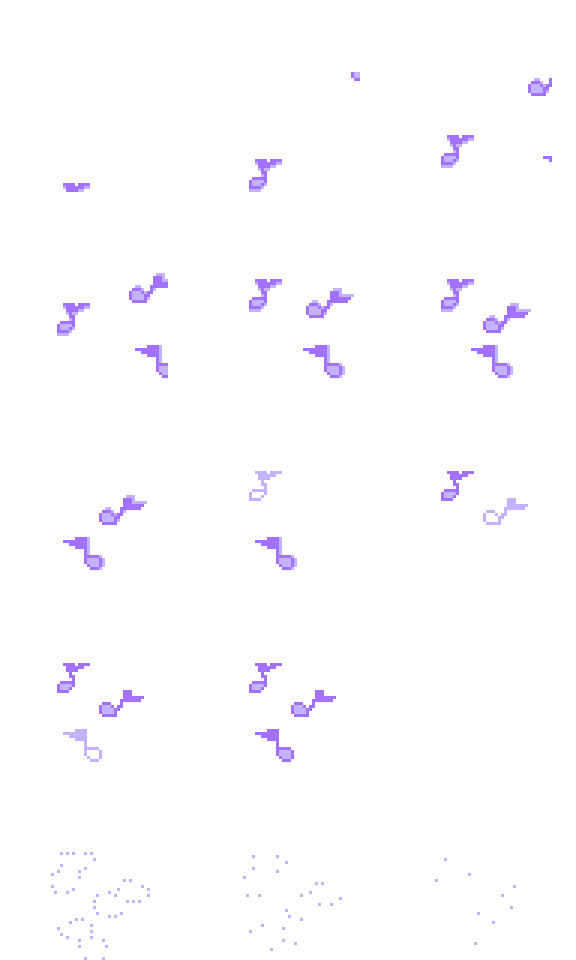
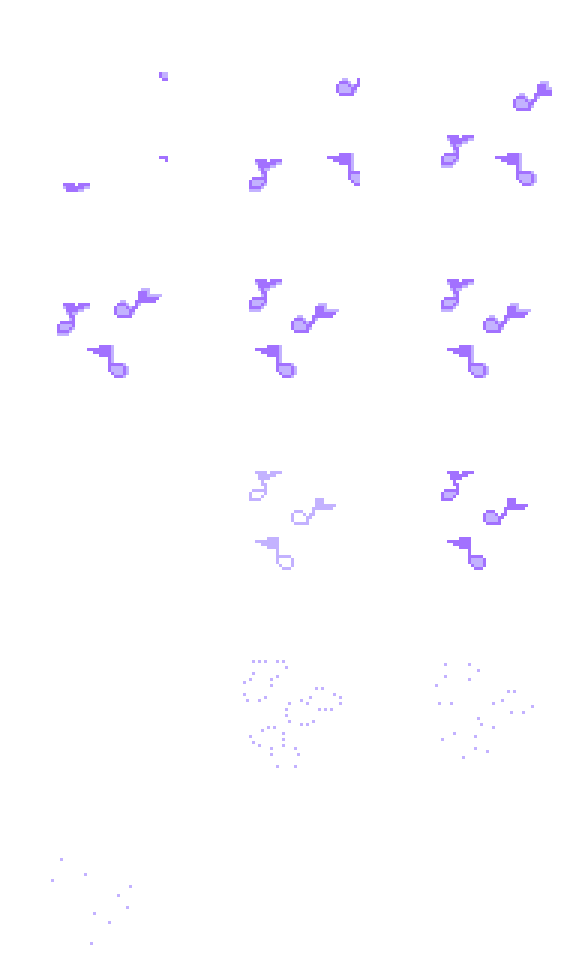
load animation info into engine

diff --git a/js/plugins.js b/js/plugins.js
@@ -5,5 +5,5 @@ var $plugins =
 {"name":"E9D_NotMyNsf","status":false,"description":"Integrates and adapts okaybenji's (on github) JS NSF player.","parameters":{"title":"","battle":"{\"fileDir\":\"audio/nsf\",\"fileName\":\"ff3\",\"track\":\"32\"}","victory":"{\"fileDir\":\"audio/nsf\",\"fileName\":\"ff3\",\"track\":\"7\"}","defeat":"{\"fileDir\":\"audio/nsf\",\"fileName\":\"ff3\",\"track\":\"19\"}","gameOver":"","boat":"","ship":"","airship":"","cursor":"{\"fileDir\":\"\",\"fileName\":\"\",\"track\":\"0\"}","ok":"","cancel":"","buzzer":"","equip":"","save":"","load":"","battleStart":"","escape":"","enemyAttack":"","enemyDamage":"","enemyCollapse":"","bossCollapse1":"","bossCollapse2":"","actorDamage":"","actorCollapse":"","recovery":"","miss":"","evasion":"","magicEvasion":"","magicReflection":"","shop":"","useItem":"","useSkill":""}},
 {"name":"E9D_PixelPerfect","status":true,"description":"Adjustments and options for different resolutions.","parameters":{"renderPixelated":"true","forceWholeResolution":"true","screenWidth":"272","screenHeight":"208","uiAreaWidth":"272","uiAreaHeight":"208","tileWidth":"16","tileHeight":"16","imageFileTag":"_RUNTIME","balloonW":"16","balloonH":"16","buttonW":"16","buttonH":"16","iconW":"8","iconH":"8","faceW":"48","faceH":"48","stateW":"32","stateH":"32","weaponW":"192","weaponH":"32","windowFileSize":"64","windowBorderThickness":"8","cursorBorderThickness":"8"}},
 {"name":"E9D_PaletteJail","status":true,"description":"Provides palette-limited color filters.","parameters":{"paletteFile":"img/system/JailPalette"}},
-{"name":"E9D_RetroFantasy","status":true,"description":"Features for Retro Fantasy.","parameters":{"textImages":"[\"{\\\"file\\\":\\\"img/system/TextFont\\\",\\\"characterW\\\":\\\"8\\\",\\\"characterH\\\":\\\"8\\\"}\"]"}}
+{"name":"E9D_RetroFantasy","status":true,"description":"Features for Retro Fantasy.","parameters":{"textImages":"[\"{\\\"file\\\":\\\"img/system/TextFont\\\",\\\"characterW\\\":\\\"8\\\",\\\"characterH\\\":\\\"8\\\"}\"]","effectImages":"[\"{\\\"file\\\":\\\"img/effects/acid\\\",\\\"frameW\\\":\\\"64\\\",\\\"frameH\\\":\\\"64\\\",\\\"frameCount\\\":\\\"9\\\"}\",\"{\\\"file\\\":\\\"img/effects/bolt\\\",\\\"frameW\\\":\\\"64\\\",\\\"frameH\\\":\\\"152\\\",\\\"frameCount\\\":\\\"6\\\"}\",\"{\\\"file\\\":\\\"img/effects/boost\\\",\\\"frameW\\\":\\\"64\\\",\\\"frameH\\\":\\\"64\\\",\\\"frameCount\\\":\\\"12\\\"}\",\"{\\\"file\\\":\\\"img/effects/flame\\\",\\\"frameW\\\":\\\"64\\\",\\\"frameH\\\":\\\"64\\\",\\\"frameCount\\\":\\\"14\\\"}\",\"{\\\"file\\\":\\\"img/effects/frost\\\",\\\"frameW\\\":\\\"64\\\",\\\"frameH\\\":\\\"64\\\",\\\"frameCount\\\":\\\"13\\\"}\",\"{\\\"file\\\":\\\"img/effects/gale\\\",\\\"frameW\\\":\\\"64\\\",\\\"frameH\\\":\\\"64\\\",\\\"frameCount\\\":\\\"14\\\"}\",\"{\\\"file\\\":\\\"img/effects/gas\\\",\\\"frameW\\\":\\\"64\\\",\\\"frameH\\\":\\\"64\\\",\\\"frameCount\\\":\\\"9\\\"}\",\"{\\\"file\\\":\\\"img/effects/heal\\\",\\\"frameW\\\":\\\"64\\\",\\\"frameH\\\":\\\"64\\\",\\\"frameCount\\\":\\\"9\\\"}\",\"{\\\"file\\\":\\\"img/effects/purify\\\",\\\"frameW\\\":\\\"64\\\",\\\"frameH\\\":\\\"64\\\",\\\"frameCount\\\":\\\"9\\\"}\",\"{\\\"file\\\":\\\"img/effects/quake\\\",\\\"frameW\\\":\\\"64\\\",\\\"frameH\\\":\\\"64\\\",\\\"frameCount\\\":\\\"16\\\"}\",\"{\\\"file\\\":\\\"img/effects/ritual\\\",\\\"frameW\\\":\\\"64\\\",\\\"frameH\\\":\\\"64\\\",\\\"frameCount\\\":\\\"15\\\"}\",\"{\\\"file\\\":\\\"img/effects/soothe\\\",\\\"frameW\\\":\\\"64\\\",\\\"frameH\\\":\\\"64\\\",\\\"frameCount\\\":\\\"13\\\"}\",\"{\\\"file\\\":\\\"img/effects/spellSword\\\",\\\"frameW\\\":\\\"64\\\",\\\"frameH\\\":\\\"64\\\",\\\"frameCount\\\":\\\"9\\\"}\",\"{\\\"file\\\":\\\"img/effects/spike\\\",\\\"frameW\\\":\\\"64\\\",\\\"frameH\\\":\\\"64\\\",\\\"frameCount\\\":\\\"8\\\"}\"]"}}
 ];

diff --git a/js/plugins/E9D_RetroFantasy.js b/js/plugins/E9D_RetroFantasy.js
@@ -25,11 +25,20 @@
  * to expand upon this further in this plugin, as such a feature probably
  * belongs in a plugin focused more on text options.
  *
+ * The effect images feature allows the specification of image files that
+ * contain simple animations. This is to bring back some functionality
+ * resembling older RPG Maker skill animations. They can be referenced in skill
+ * note json data.
+ *
  * @param textImages
  * @text Text Images
  * @desc An array of text image files and their specifications.
  * @type struct<textImageInfo>[]
- * @parent useTextImages
+ *
+ * @param effectImages
+ * @text Effect Images
+ * @desc An array of effect image files and their specifications.
+ * @type struct<effectImageInfo>[]
  */
  
 /*~struct~textImageInfo:
@@ -40,7 +49,7 @@
  * @type file
  *
  * @param characterW
- * @text Character width
+ * @text Character Width
  * @desc The width of an individual text character.
  * @type number
  * @default 8
@@ -52,6 +61,38 @@
  * @desc The height of an individual text character.
  * @type number
  * @default 8
+ * @min 1
+ * @decimals 0
+ */
+ 
+/*~struct~effectImageInfo:
+ *
+ * @param file
+ * @text File
+ * @desc The animation image file.
+ * @type file
+ *
+ * @param frameW
+ * @text Frame Width
+ * @desc The width of an individual animation frame.
+ * @type number
+ * @default 64
+ * @min 1
+ * @decimals 0
+ *
+ * @param frameH
+ * @text Frame Height
+ * @desc The height of an individual animation frame.
+ * @type number
+ * @default 64
+ * @min 1
+ * @decimals 0
+ *
+ * @param frameCount
+ * @text Frame Count
+ * @desc The number of frames in the file.
+ * @type number
+ * @default 9
  * @min 1
  * @decimals 0
  */
@@ -70,9 +111,17 @@
 		pluginParams.textImages = parseStringToJson(pluginParams.textImages, []);
 		for(const textImageInfoStringIndex in pluginParams.textImages) {
 			const textImageInfo = JSON.parse(pluginParams.textImages[textImageInfoStringIndex]);
-			textImageInfo.characterW = parseJSONInt(textImageInfo.characterW, 32, 1);
-			textImageInfo.characterH = parseJSONInt(textImageInfo.characterH, 32, 1);
+			textImageInfo.characterW = parseJSONInt(textImageInfo.characterW, 8, 1);
+			textImageInfo.characterH = parseJSONInt(textImageInfo.characterH, 8, 1);
 			pluginParams.textImages[textImageInfoStringIndex] = textImageInfo;
+		}
+		pluginParams.effectImages = parseStringToJson(pluginParams.effectImages, []);
+		for(const effectImageInfoStringIndex in pluginParams.effectImages) {
+			const effectImageInfo = JSON.parse(pluginParams.effectImages[effectImageInfoStringIndex]);
+			effectImageInfo.frameW = parseJSONInt(effectImageInfo.frameW, 64, 1);
+			effectImageInfo.frameH = parseJSONInt(effectImageInfo.frameH, 64, 1);
+			effectImageInfo.frameCount = parseJSONInt(effectImageInfo.frameCount, 1, 1);
+			pluginParams.effectImages[effectImageInfoStringIndex] = effectImageInfo;
 		}
 	}
 	
